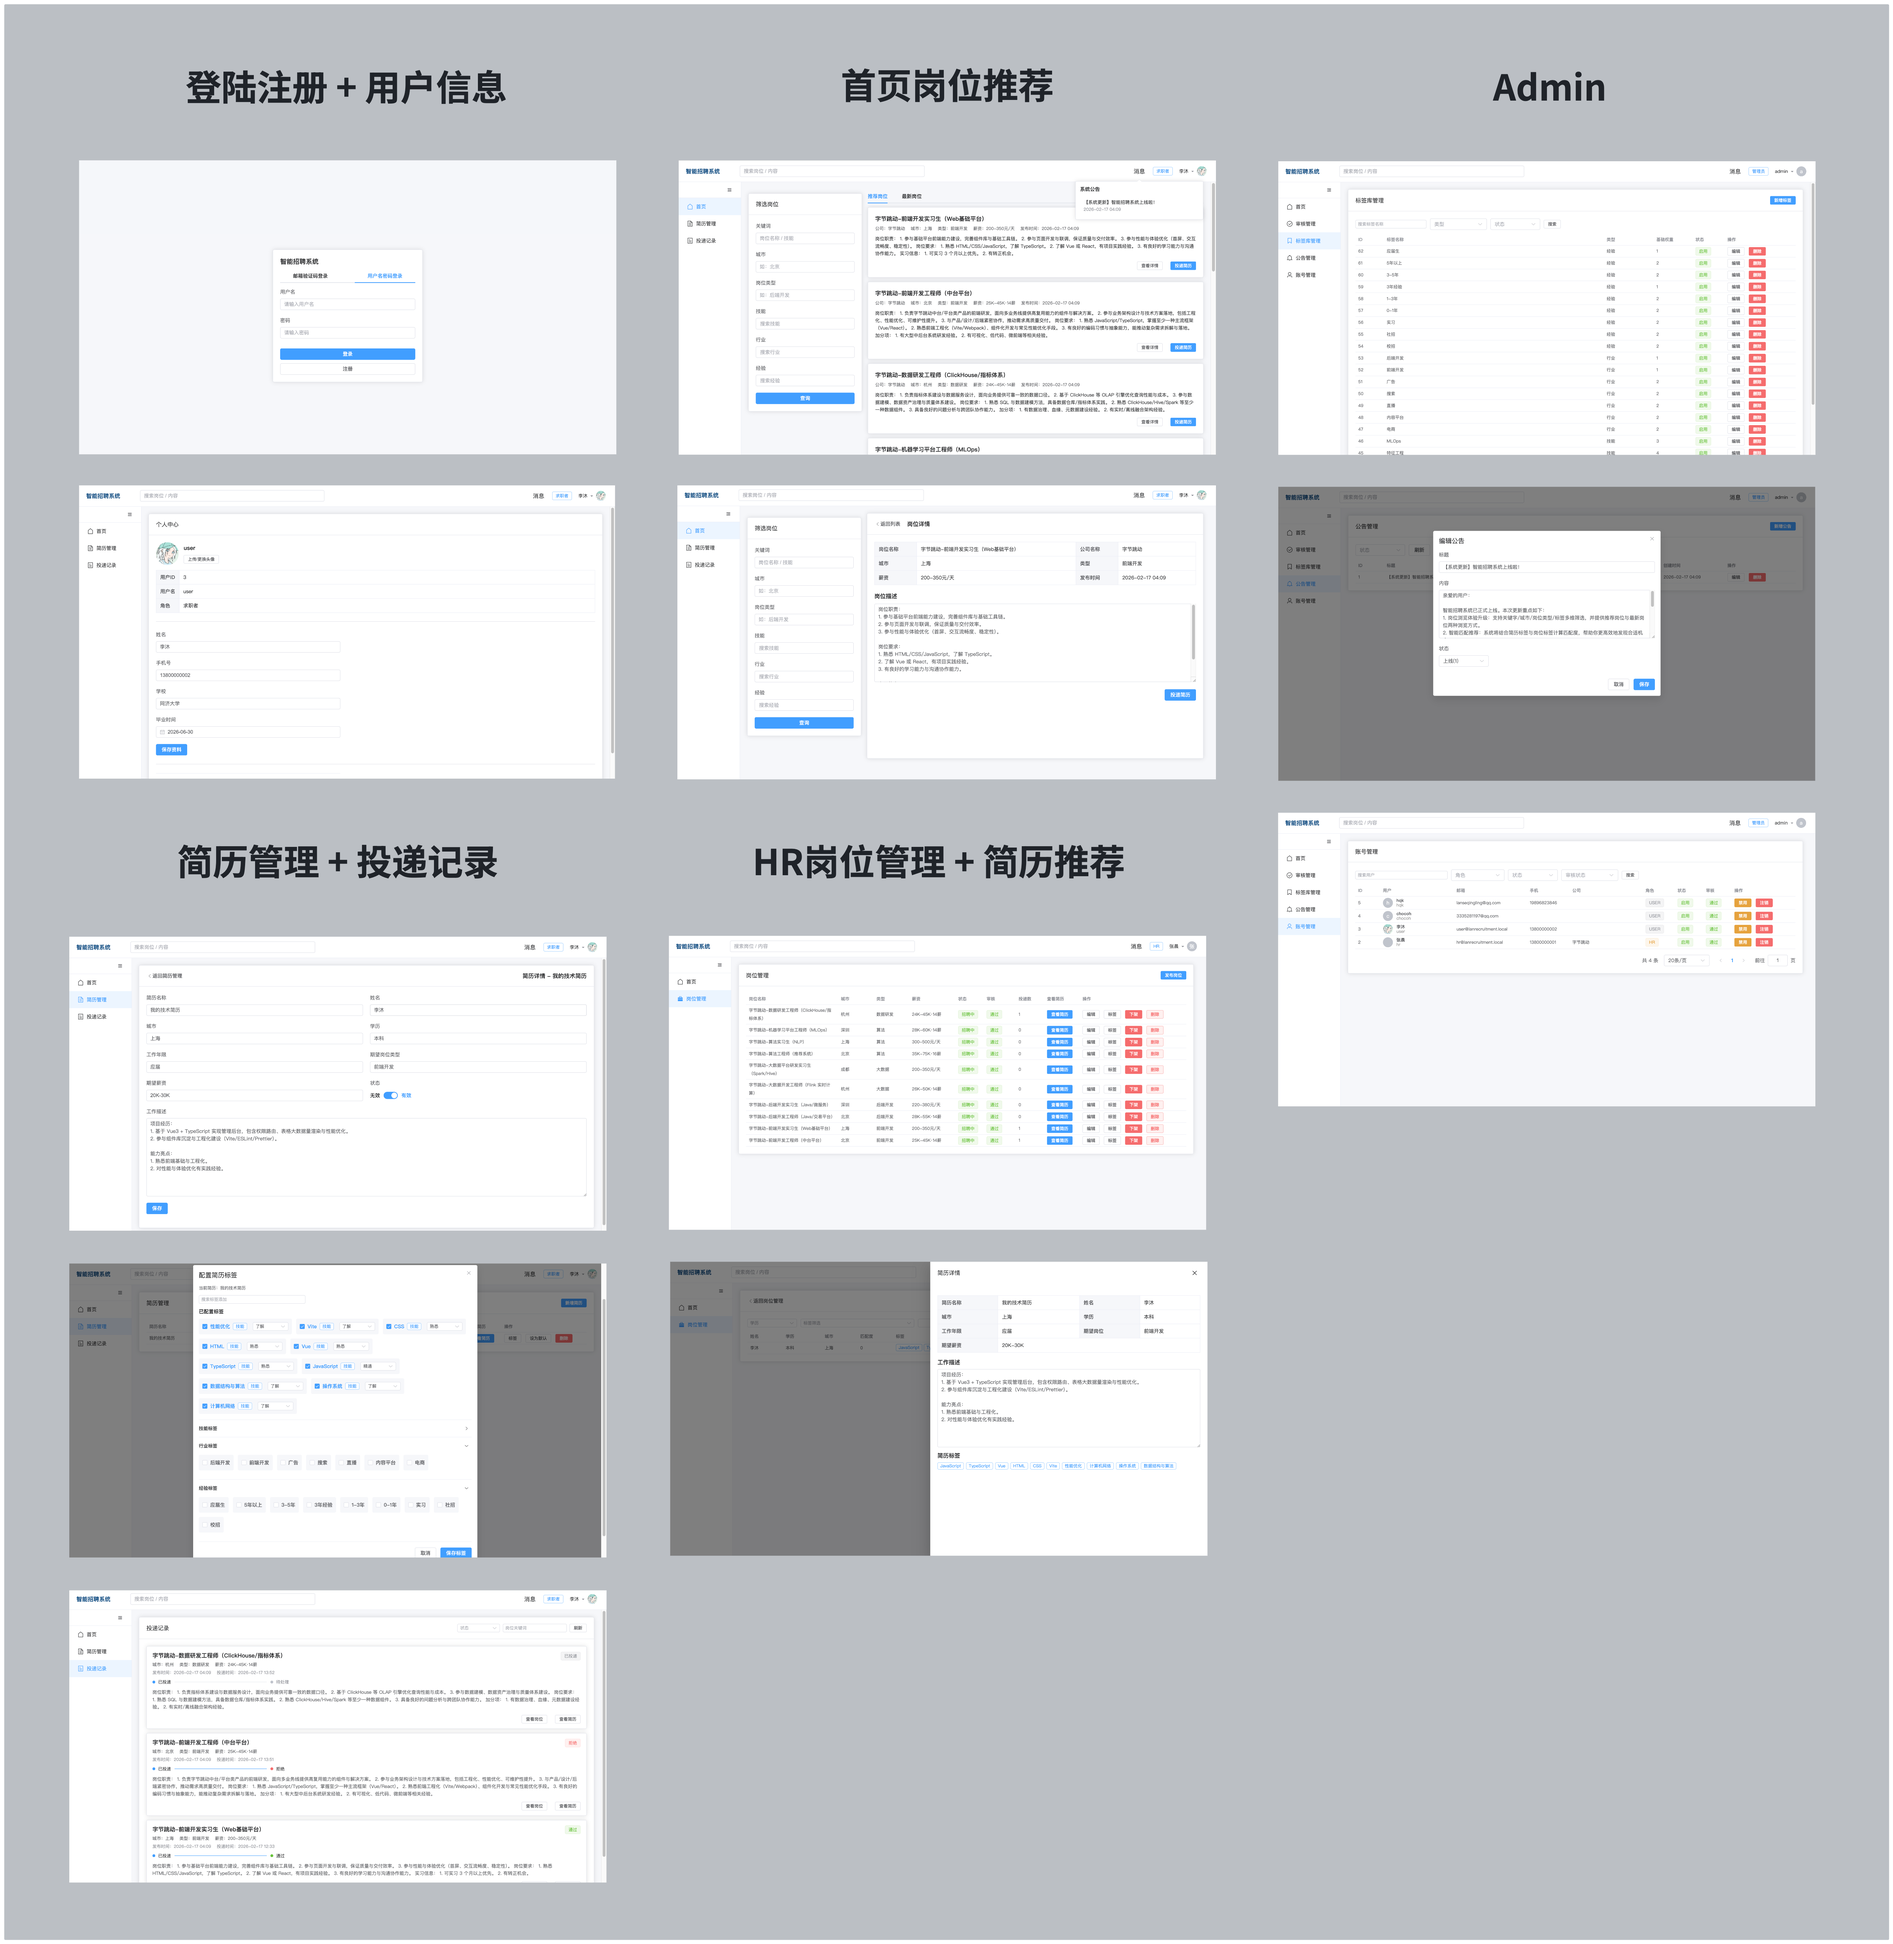
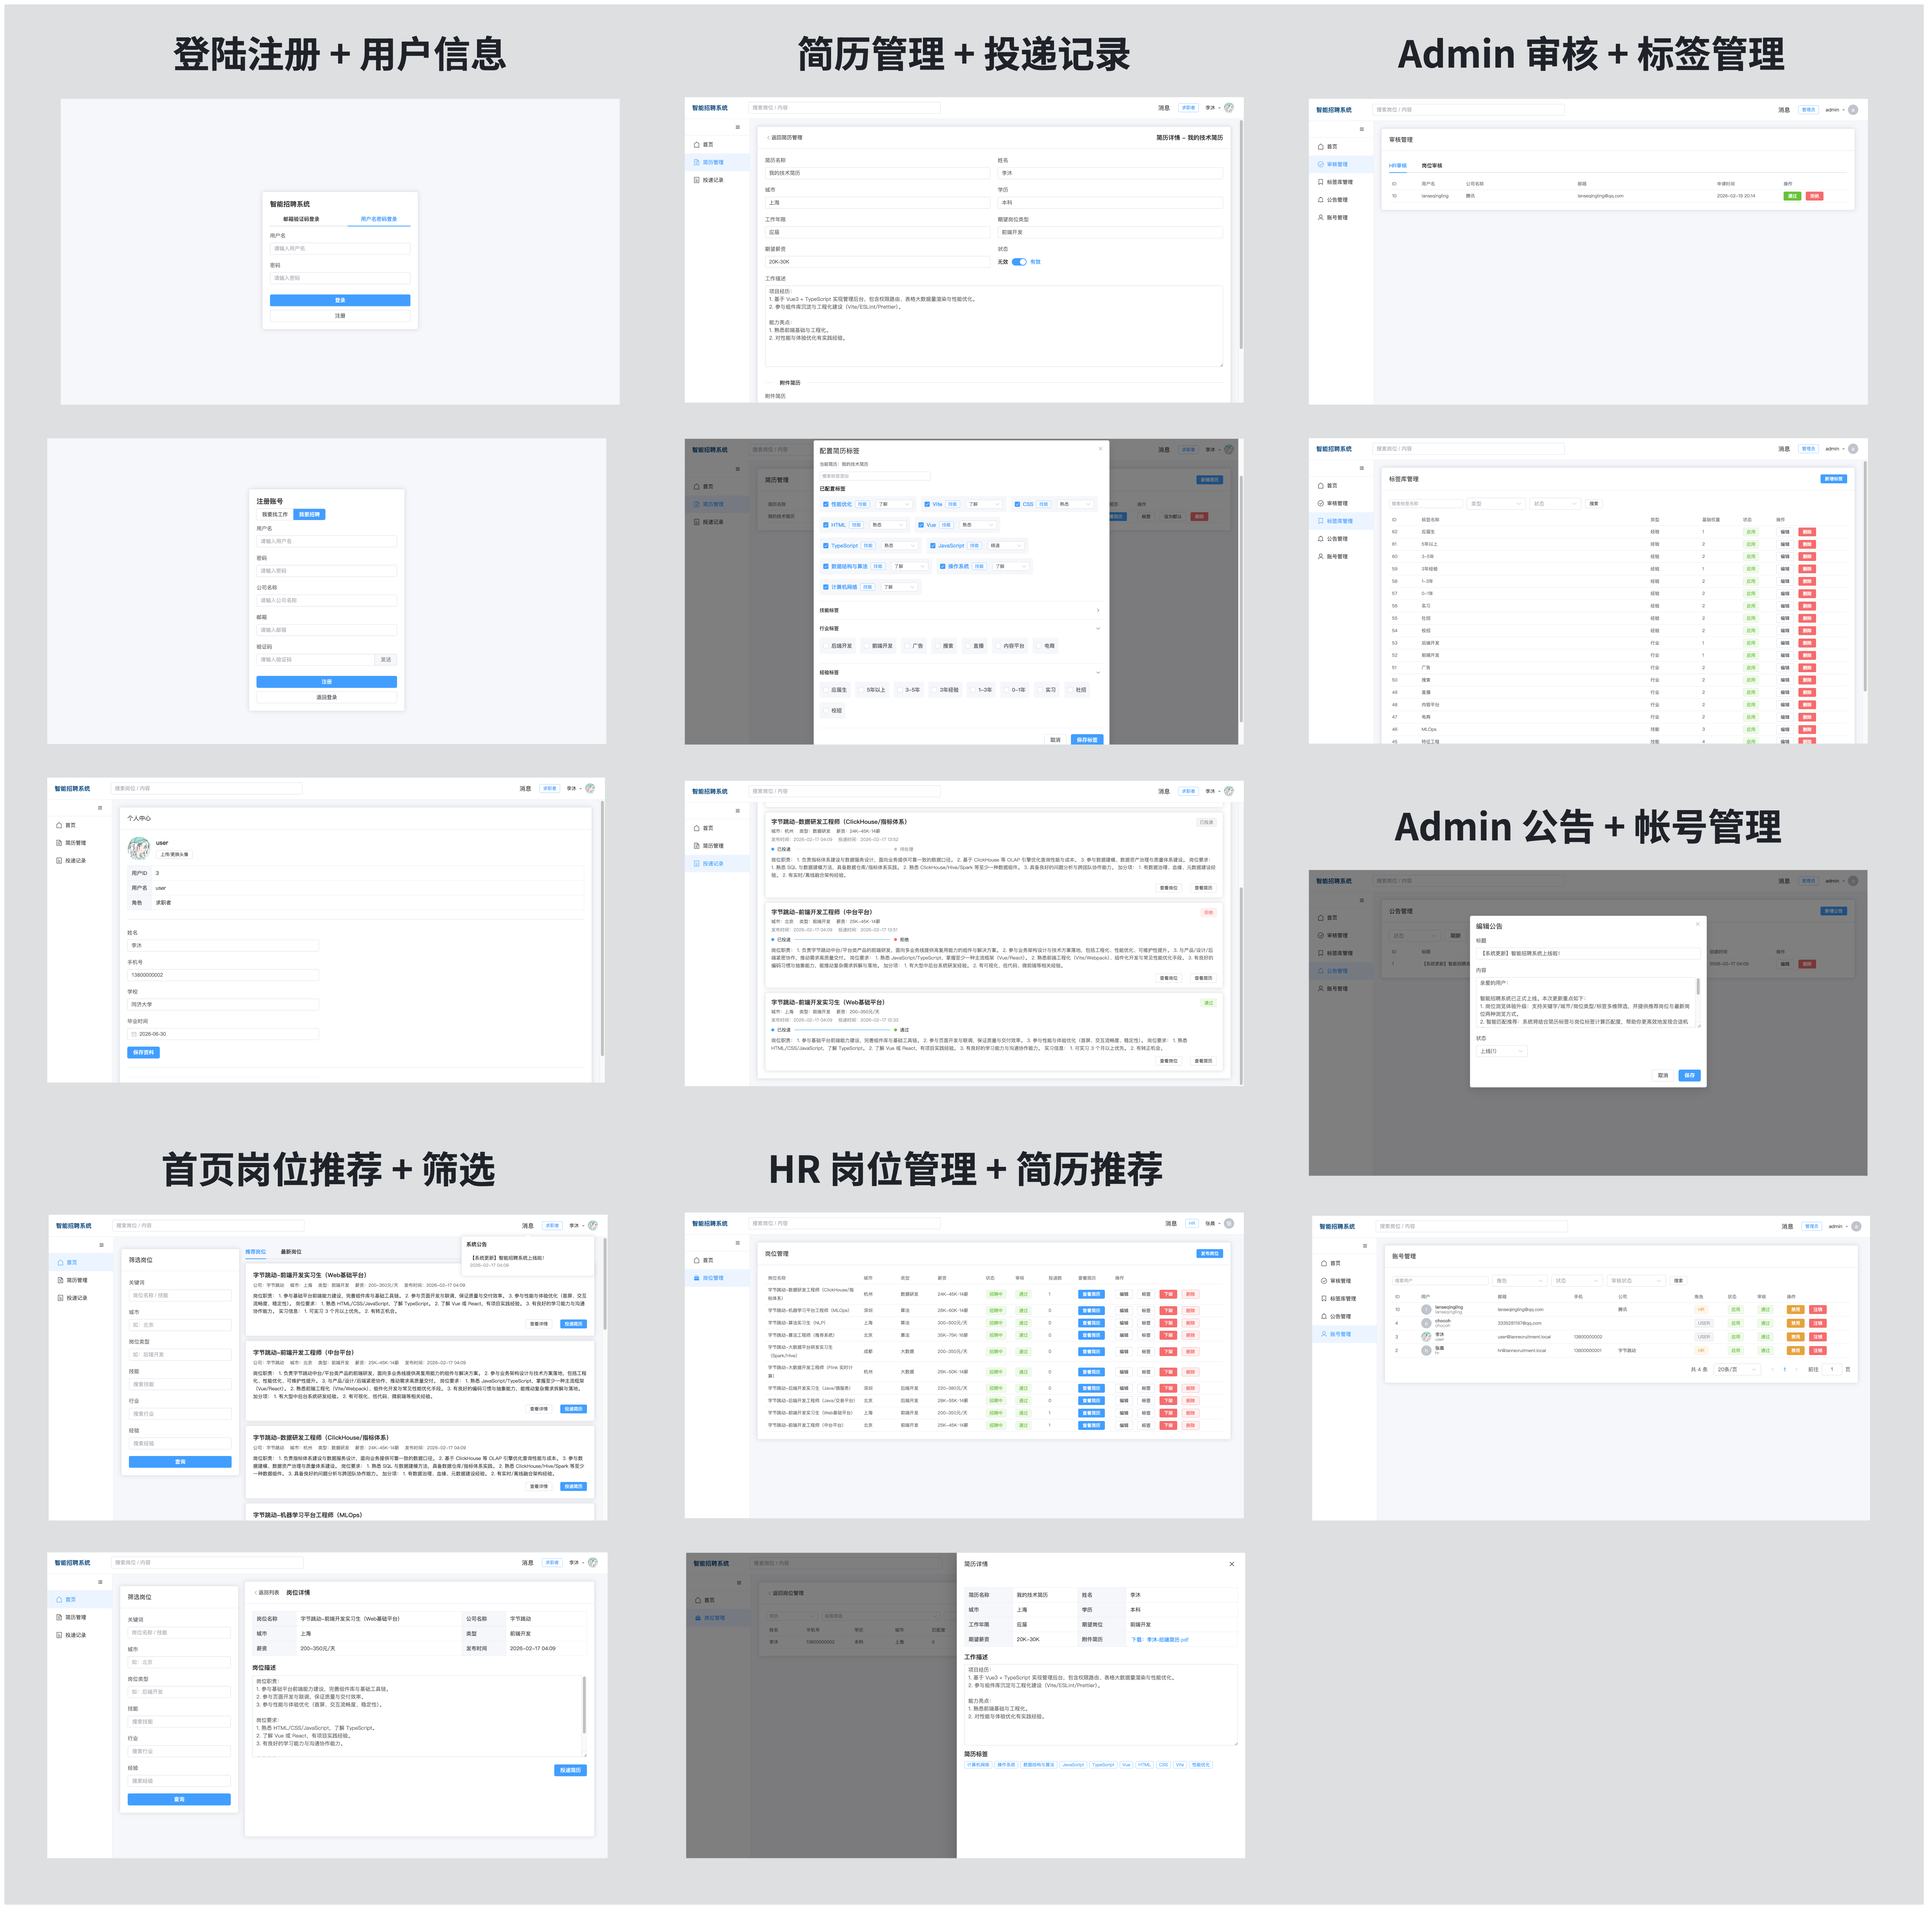
feat: readme补充算法介绍

diff --git a/frontend/src/pages/NoticeManage.vue b/frontend/src/pages/NoticeManage.vue
@@ -9,10 +9,9 @@
 
     <div class="filters">
       <el-select v-model="query.status" clearable placeholder="状态" style="width: 140px" @change="load">
-        <el-option label="上线(1)" :value="1" />
-        <el-option label="下线(0)" :value="0" />
+        <el-option label="上线" :value="1" />
+        <el-option label="下线" :value="0" />
       </el-select>
-      <el-button @click="load">刷新</el-button>
     </div>
 
     <el-table :data="notices" size="small" style="width: 100%">

diff --git a/frontend/src/pages/ApplyManage.vue b/frontend/src/pages/ApplyManage.vue
@@ -10,7 +10,6 @@
             <el-option label="拒绝" :value="3" />
           </el-select>
           <el-input v-model="keyword" size="small" clearable placeholder="岗位关键词" style="width: 180px" @keyup.enter="load" />
-          <el-button size="small" :loading="loading" @click="load">刷新</el-button>
         </div>
       </div>
     </template>

diff --git a/README.md b/README.md
@@ -11,6 +11,17 @@
 - `/scripts`：一键启动脚本
 - `/docs`：需求与规范文档
 
+## 推荐算法实现（简述）
+
+系统内的“岗位推荐 / 简历筛选排序”基于简历标签与岗位标签计算匹配度，并按匹配度从高到低排序展示。
+
+- 向量定义：将简历与岗位都表示为稀疏向量 `{tagId -> weight}`（数据来自 `resume_tag` / `job_tag`）
+- 权重策略：标签配置包含 `baseWeight`；简历技能标签（SKILL）会结合熟练度 `proficiency` 放大权重（`baseWeight * proficiency`），非技能类按 `baseWeight`
+- 匹配度计算：使用余弦相似度 `score = dot(a,b) / (|a|*|b|)`，结果保留 4 位小数（核心实现见 `backend/src/main/java/com/lanrecruitment/service/impl/MatchServiceImpl.java`）
+- 推荐流程：按筛选条件生成候选岗位集合（默认取前 200 个候选），逐个计算匹配分并落库（`match_score`），再按 `matchScore` 倒序返回
+- HR 侧排序：HR 查看岗位投递列表时，也会为每份投递简历计算匹配分并按分数倒序排序
+- 兜底策略：当用户无可用简历时，推荐接口退化为对候选岗位随机排序返回（不计算匹配分）
+
 ## 后端启动
 
 1. 执行数据库初始化 SQL ：`/backend/sql/init.sql`
